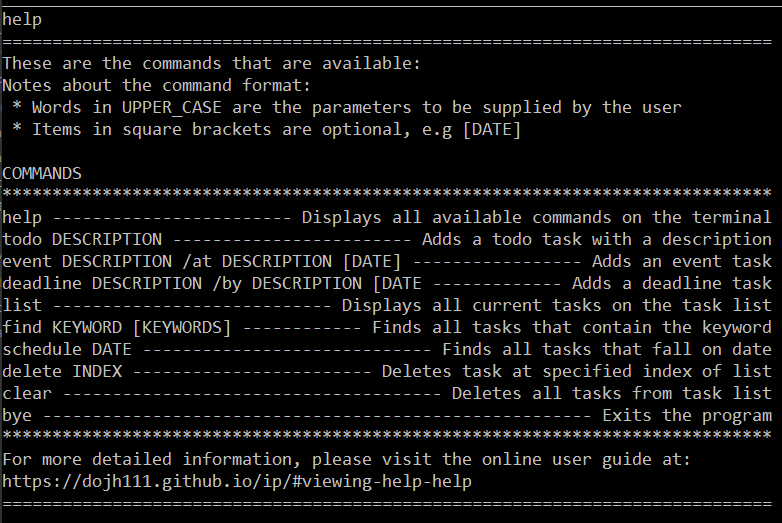
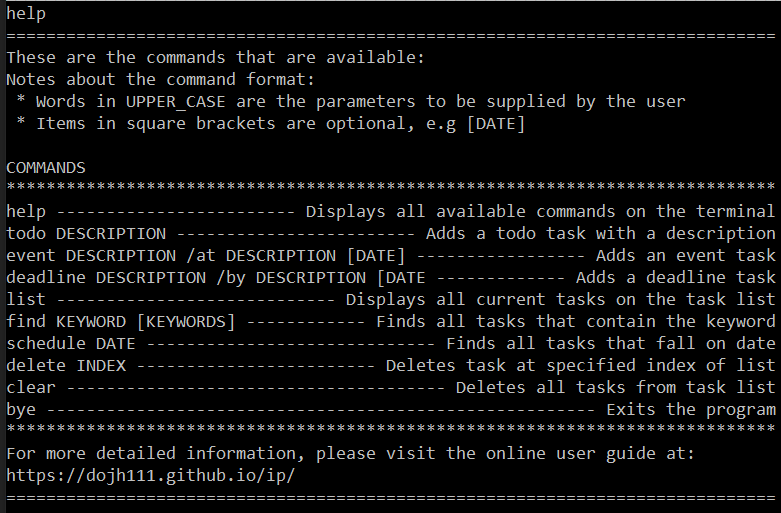
Update help menu description and edit photo

Changed region(s): [[0.0, 0.0, 1.0, 1.0]]

diff --git a/src/main/java/walter/components/Ui.java b/src/main/java/walter/components/Ui.java
@@ -71,7 +71,7 @@ public class Ui {
             + "bye ------------------------------------------------------- Exits the program\n"
             + "*****************************************************************************\n"
             + "For more detailed information, please visit the online user guide at:\n"
-            + "https://dojh111.github.io/ip/#viewing-help-help\n"
+            + "https://dojh111.github.io/ip/\n"
             + "=============================================================================\n";
     /**
      * Prints separator component after text is printed
